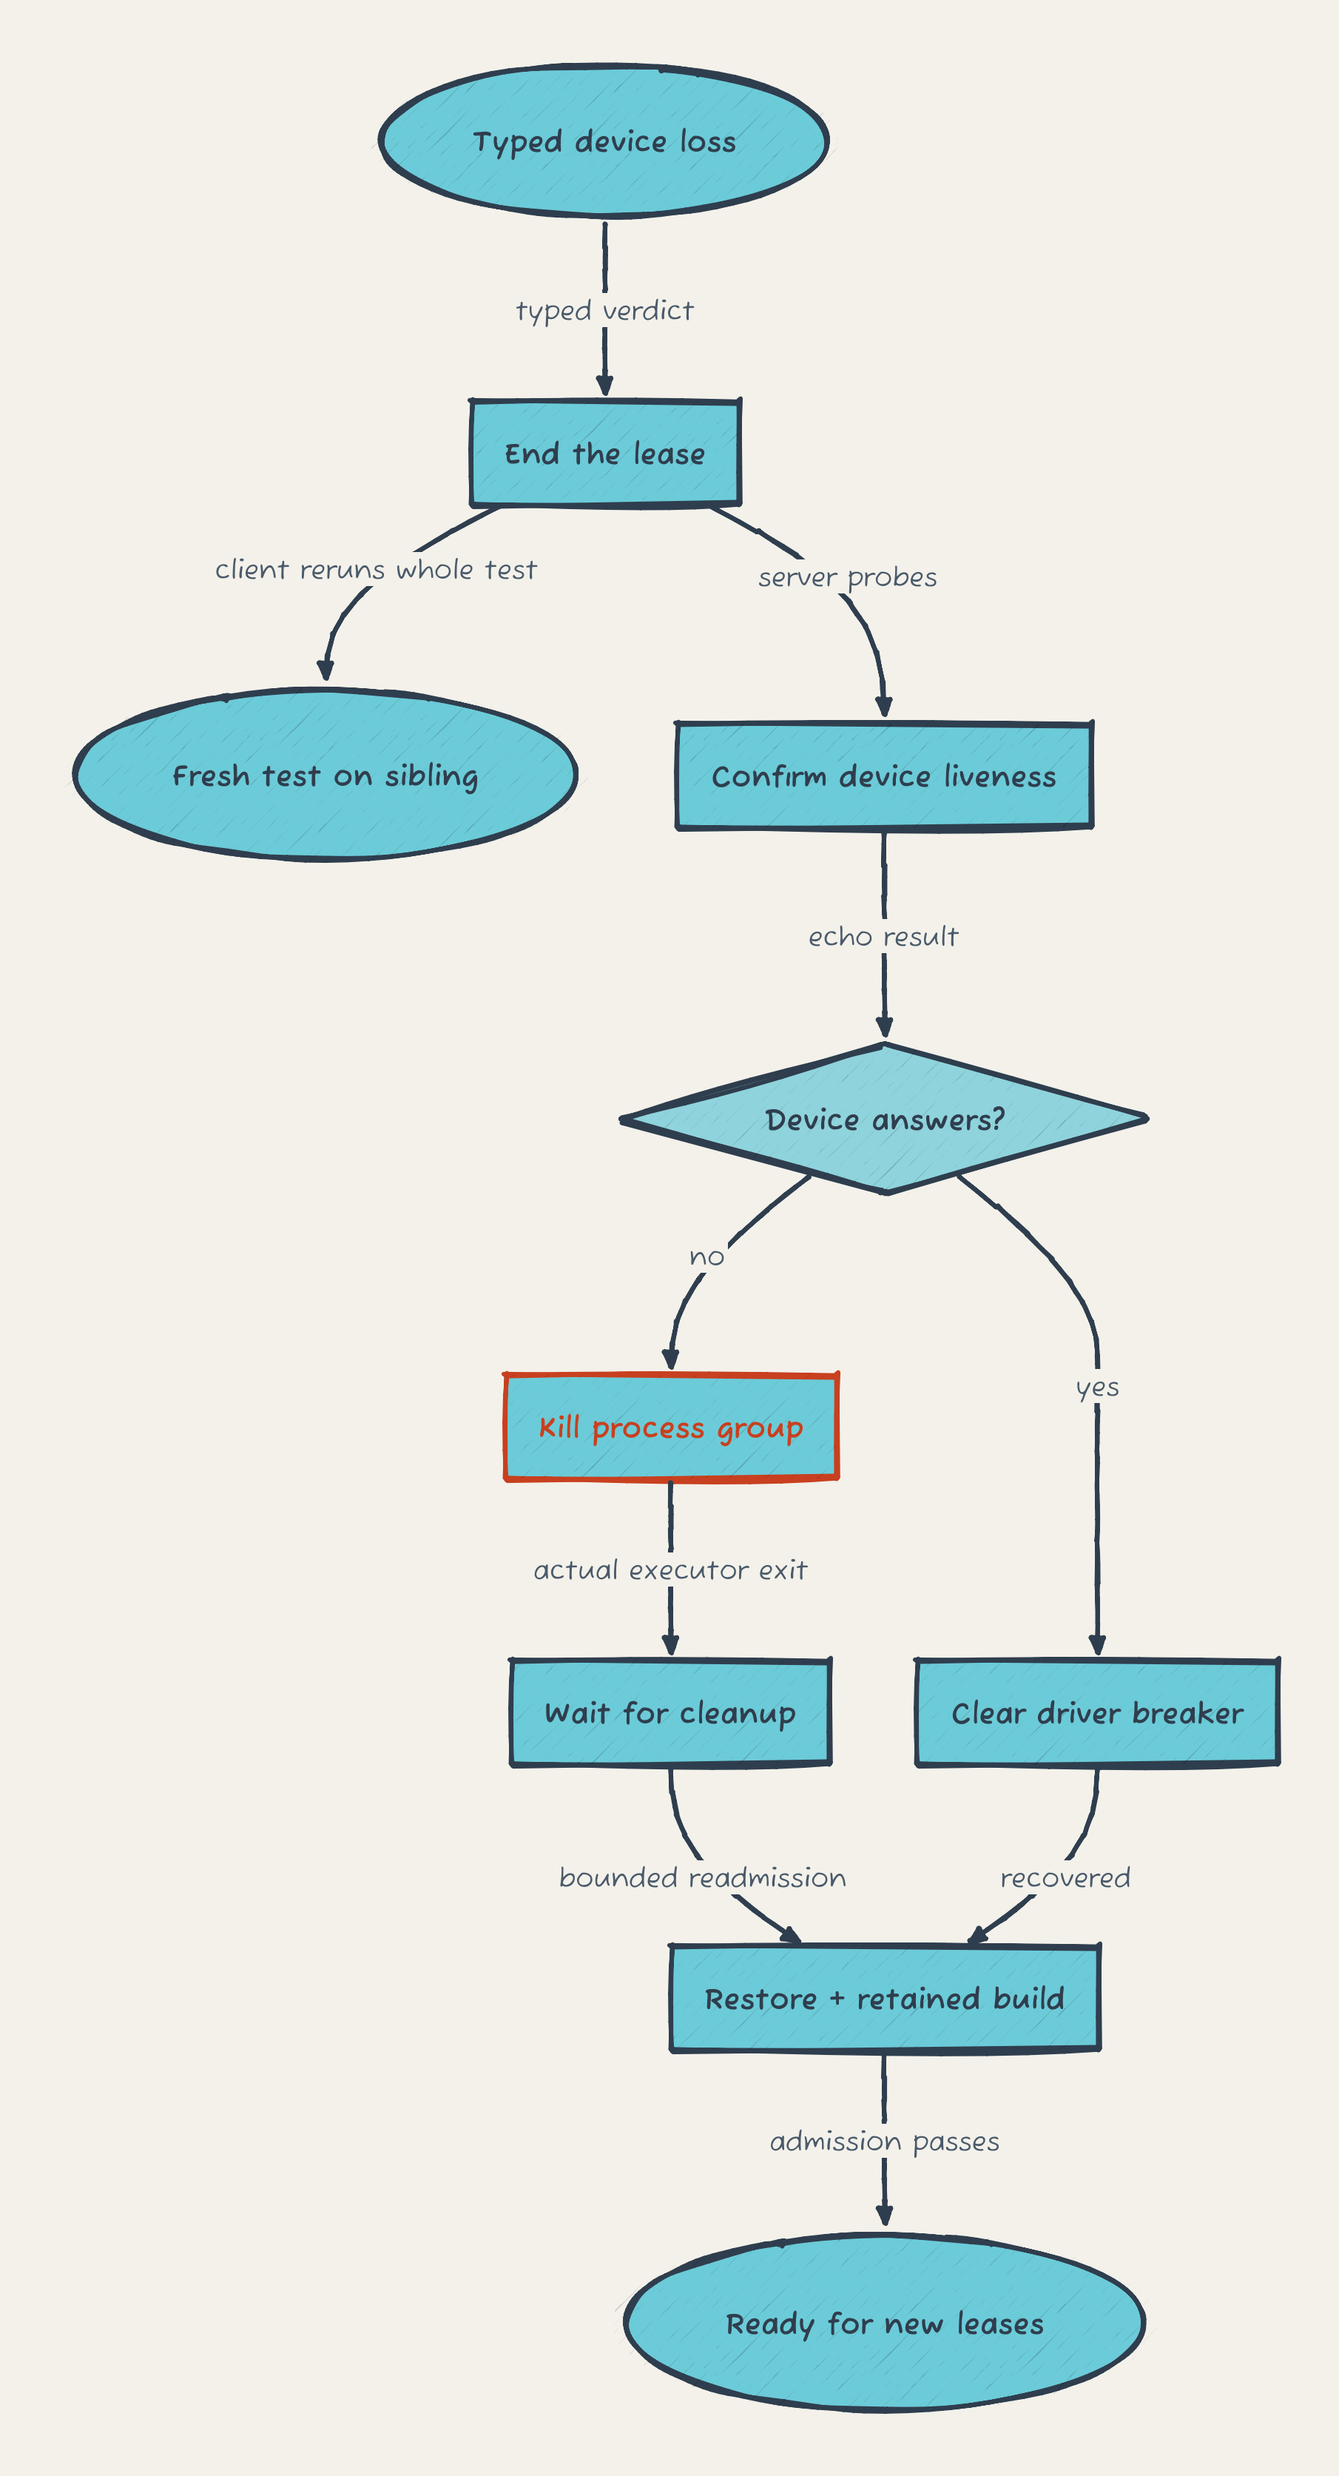
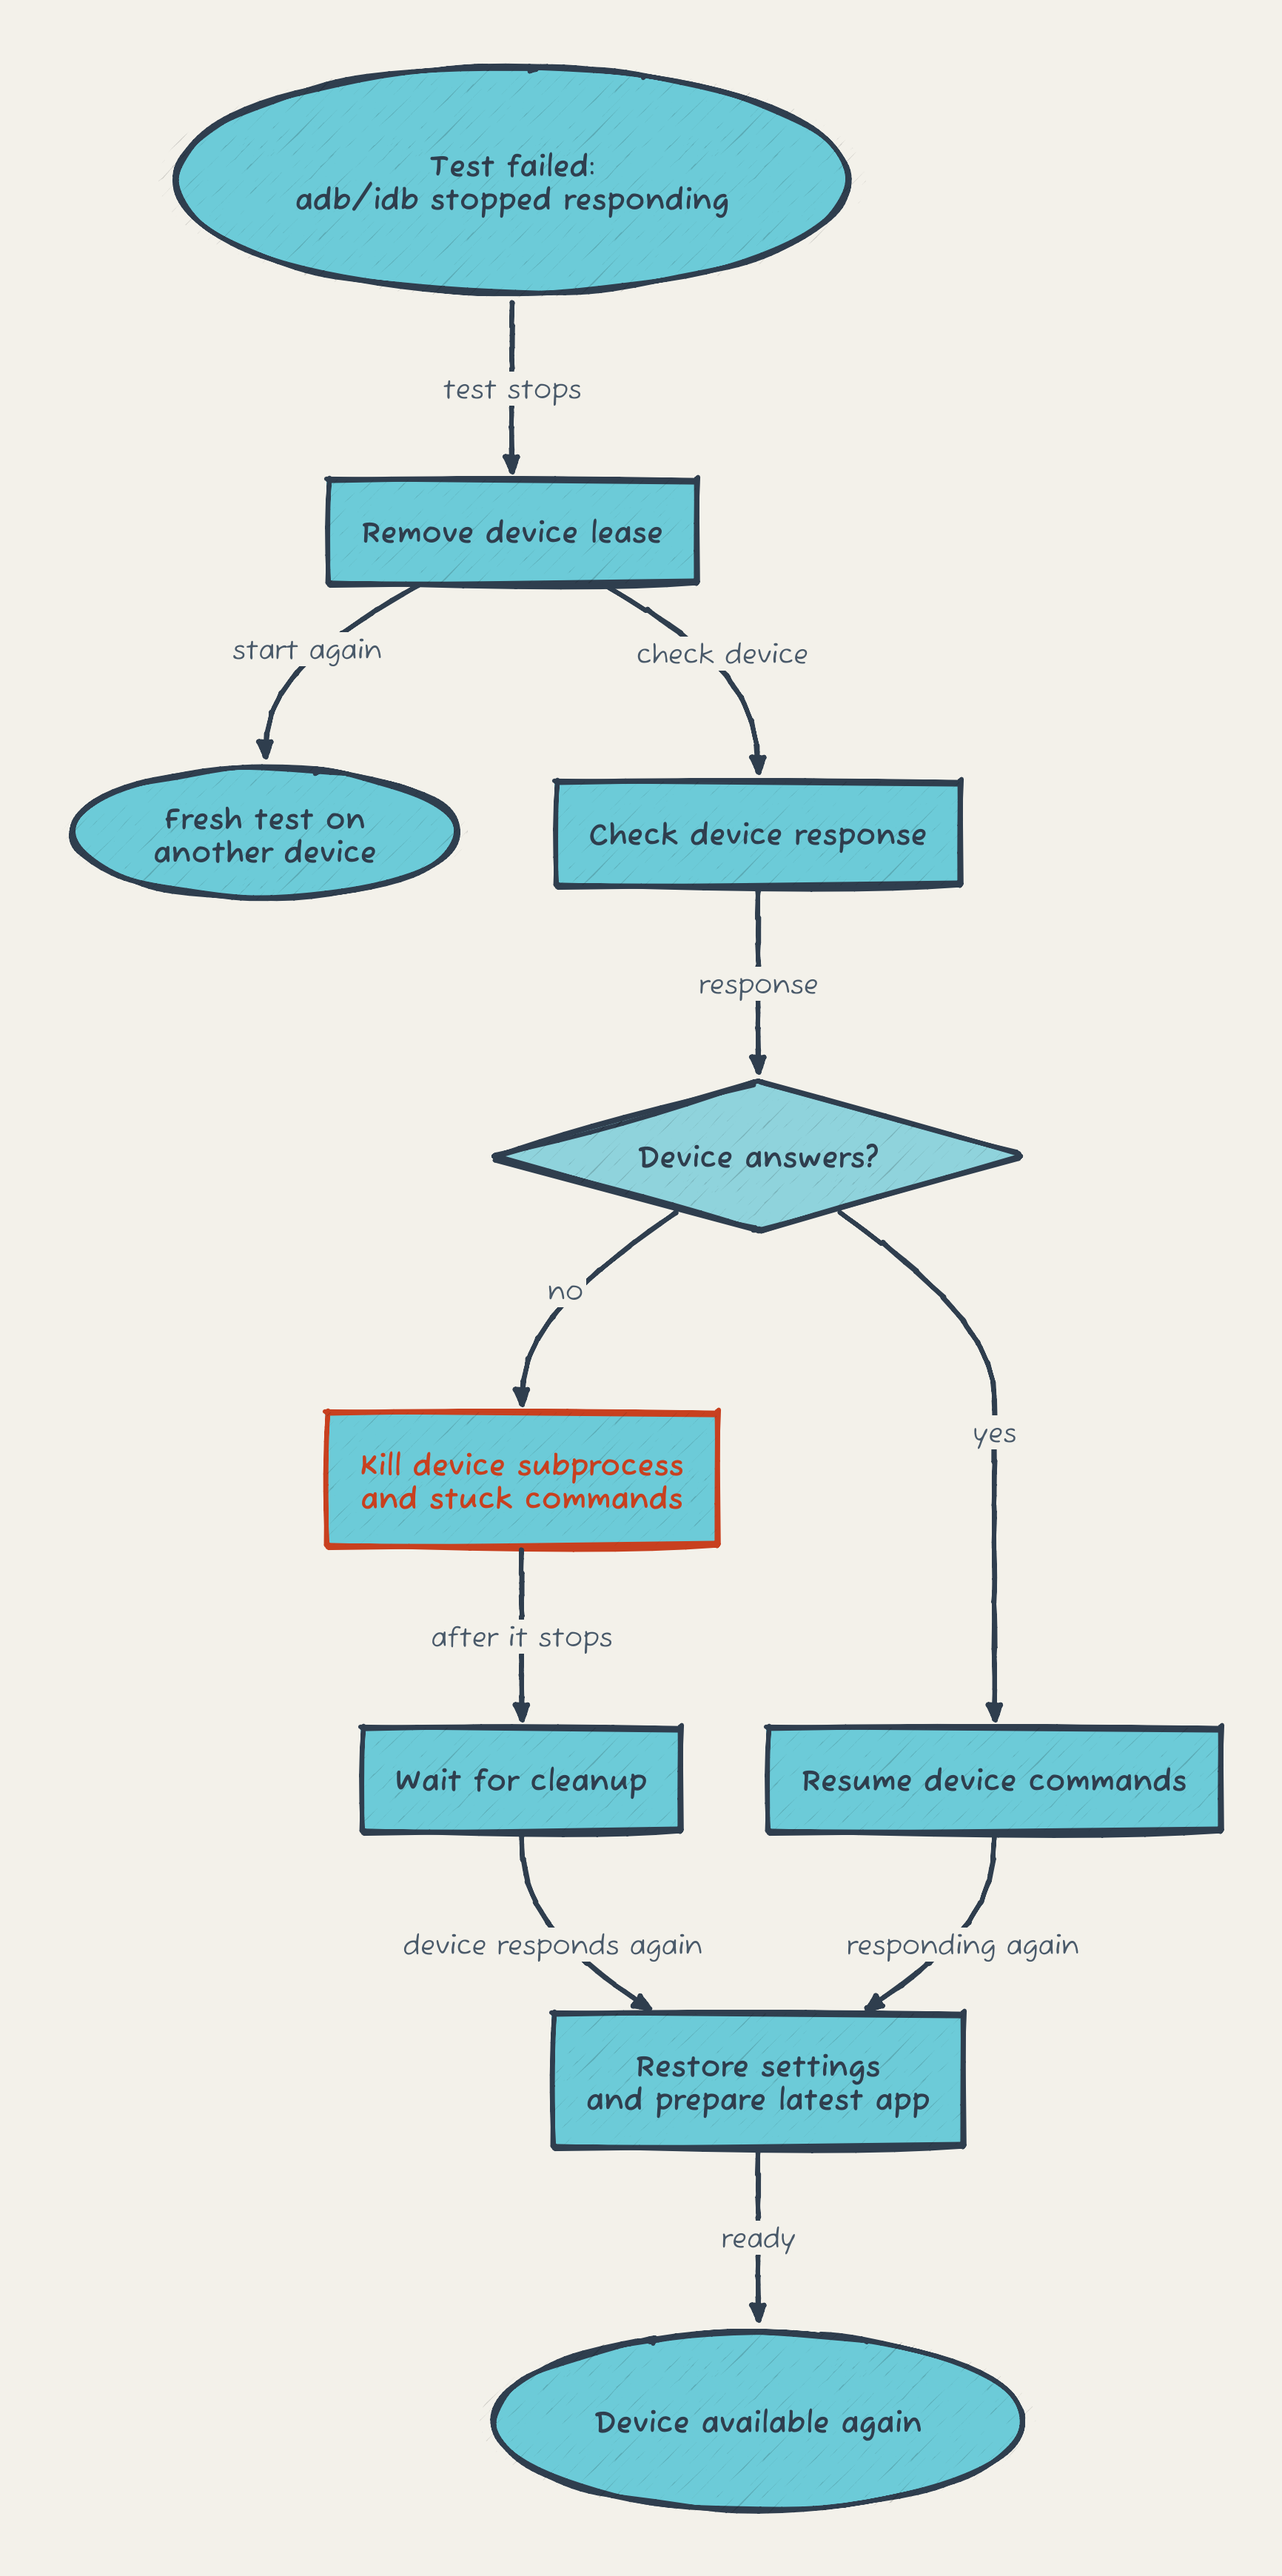
docs: explain server recovery and diagrams in plain language
Simplify diagram labels and their supporting text. No version bump: no CLI behaviour changed.

Changed region(s): [[0.0312, 0.0, 0.9665, 0.9946], [0.6236, 0.2176, 0.6547, 0.2487]]

diff --git a/docs/diagrams/README.md b/docs/diagrams/README.md
@@ -1,15 +1,17 @@
-# Server supervision
+# How the server runs tests
 
-The parent server owns health, streaming leases, FIFO admission and the retained build. Each device has one detached executor process group; device-tool children run in that group. The client compiles before acquiring a lease.
+The server checks which devices can run tests and assigns each test a device. Each device has its own subprocess to run adb/idb commands, so one stuck device does not block the others. The client prepares the test plan before reserving a device and keeps that reservation alive while the test runs.
 
-![Server supervisor and isolated executors](server-supervision.png)
+![Server assigns tests to separate device subprocesses](server-supervision.png)
 
-# Device loss and recovery
+# When a device stops responding
 
-Typed loss ends the current lease, even when the confirming probe succeeds. A suite reruns the whole test on a healthy sibling without spending a retry, at most twice per test. The failed action is never replayed elsewhere.
+The failed test loses its device reservation. A suite can start that test from the beginning on another device, without spending a retry, at most twice per test. This still happens if the original device starts responding during the server's check.
 
-Confirmed device failure kills the executor process group. A four-minute install deadline also kills that group directly. A client soft deadline alone lets the original call drain. Re-adoption waits for actual exit and companion cleanup, then restores settings and verifies the retained build before dealing.
+The server checks the device separately. If it still does not respond, the server kills its subprocess and any adb/idb commands it started, then waits for cleanup. Once the device responds again, the server restores settings and makes sure it has the latest uploaded app before assigning another test.
 
-![Device loss, independent rerun and readmission](server-recovery.png)
+An app install that exceeds four minutes also kills the device subprocess and its children. A test request reaching its own time limit can leave the command running; that device stays unavailable until the command finishes or the server confirms it has stopped responding.
+
+![Failed test restarts elsewhere while the server recovers its device](server-recovery.png)
 
 Edit [server-supervision.d2](server-supervision.d2) or [server-recovery.d2](server-recovery.d2), then render with `d2 source.d2 output.png`. Both import the shared [_style.d2](_style.d2).

diff --git a/CHANGELOG.md b/CHANGELOG.md
@@ -8,6 +8,7 @@ All notable changes to this project are documented here. The format is based on
 
 ### Changed
 - **Docs site** publishes a single `sitemap.xml`.
+- **Server diagrams**: explain device reservations, test reruns and recovery in plain language.
 
 ## [1.0.0] - 2026-10-03
 
